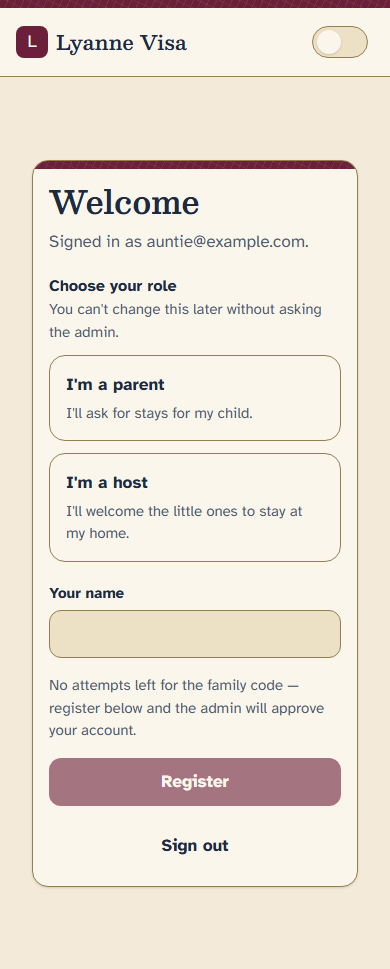
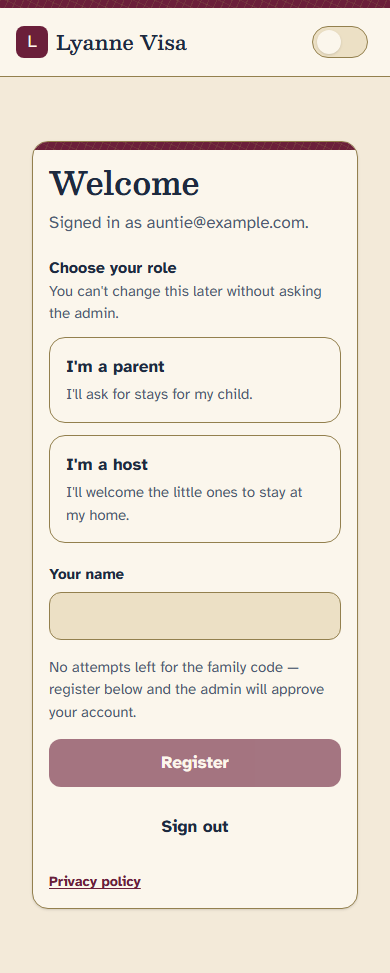
Add public /privacy page for Google OAuth branding
Google's OAuth consent-screen branding step needs a privacy policy URL
(docs/stayover/general/setup.md §4: <site>/privacy). Adds a static,
public Privacy screen reachable in every account state (signed out,
waiting, active, deactivated, admin) by carving out an
ALWAYS_PUBLIC_PATHS exception in routeFor, the single choke point both
src/proxy.ts and requireAccountForPath already use — so nothing can
redirect it away. Links to it from the sign-in and register screens'
footers. Content is derived from the schema, delivery and routing code
(what's stored, Google's basic scopes, processors, cookies/localStorage,
who can see what, and what admin_delete_member/delete_application
actually remove), with two spots flagged [OWNER TO CONFIRM] where the
answer is a hosting/ops choice, not something the code shows.

diff --git a/src/ui/screens/Privacy.tsx b/src/ui/screens/Privacy.tsx
@@ -1,0 +1,150 @@
+import type { ReactNode } from "react";
+import { Card } from "../Card";
+
+// Public, static screen — reachable signed out AND in any signed-in account
+// state (src/stayover/routing.ts's ALWAYS_PUBLIC_PATHS). No AppShell/member
+// nav here (this isn't a page the signed-in app's own nav ever points to);
+// a simple top bar with the brand and a link back to "/" instead, matching
+// how SignIn/Waiting/Deactivated lay out their own full-page Card without
+// AppShell.
+
+function Section({ title, children }: { title: string; children: ReactNode }) {
+  return (
+    <section className="mt-6">
+      <h2 className="font-display text-[20px] font-semibold text-text">{title}</h2>
+      <div className="mt-2 flex flex-col gap-2 text-[16px] text-text">{children}</div>
+    </section>
+  );
+}
+
+export function Privacy() {
+  return (
+    <div className="flex min-h-screen flex-col bg-bg">
+      <span aria-hidden="true" className="bg-guilloche block h-2 shrink-0 bg-accent" />
+      <header className="flex items-center justify-between border-b border-border bg-surface px-4 py-3 sm:px-6">
+        <span className="flex min-w-0 items-center gap-2">
+          <span
+            aria-hidden="true"
+            className="flex h-8 w-8 shrink-0 items-center justify-center rounded-lg bg-accent text-accent-ink"
+          >
+            L
+          </span>
+          <span className="truncate font-display text-[20px] font-semibold whitespace-nowrap text-text">
+            Lyanne Visa
+          </span>
+        </span>
+        {/* Plain <a>, not next/link — src/ui stays router-agnostic (see the
+            comment atop src/app/dev/gallery/registry.tsx); the other
+            internal links this screen is linked from (SignIn, Register)
+            use a plain <a> to /privacy for the same reason. */}
+        {/* eslint-disable-next-line @next/next/no-html-link-for-pages */}
+        <a
+          href="/"
+          className="flex min-h-[44px] items-center text-[17px] font-semibold text-accent underline underline-offset-2"
+        >
+          Back to home
+        </a>
+      </header>
+
+      <main className="mx-auto w-full max-w-[720px] flex-1 px-4 py-10 sm:px-6">
+        <Card letterhead>
+          <p className="font-display text-[32px] font-semibold text-text">Privacy policy</p>
+          <p className="mt-1 text-[15px] text-muted">Last updated: 25 September 2026</p>
+
+          <p className="mt-4 text-[16px] text-text">
+            Lyanne Visa is a small, private app one family uses to plan a child&apos;s
+            stayovers at grandparents&apos; and other hosts&apos; homes. It is not open to
+            the public — only people the admin has approved can sign in. This page explains,
+            in plain terms, what information the app keeps and why.
+          </p>
+
+          <Section title="What we store">
+            <p>When you have an account, we keep:</p>
+            <ul className="list-disc pl-5">
+              <li>Your account name, email address, role (parent or host) and status.</li>
+              <li>Children&apos;s names, and which parents are linked to each child.</li>
+              <li>Homes/places, including their name, address (if you add one), time zone and any capacity you set, and which hosts are linked to each one.</li>
+              <li>Stay applications: the child and home involved, proposed dates, the back-and-forth of accepting, rejecting, proposing again or cancelling, and any notes left along the way.</li>
+              <li>A record of the notification and invite emails the app has sent or tried to send (the recipient address, what kind of email it was, and whether it was sent, still pending, or failed).</li>
+              <li>Whether you&apos;ve dismissed the &ldquo;contacts&rdquo; tip, so it doesn&apos;t keep reappearing.</li>
+            </ul>
+          </Section>
+
+          <Section title="Signing in with Google">
+            <p>
+              If you sign in with Google, we only ever ask for the basic information Google
+              calls your &ldquo;openid&rdquo;, email and profile scopes — in practice, your name and
+              email address. We don&apos;t request access to your contacts, calendar, photos
+              or anything else in your Google account.
+            </p>
+          </Section>
+
+          <Section title="Who handles this data for us">
+            <p>We don&apos;t run our own servers. The app relies on:</p>
+            <ul className="list-disc pl-5">
+              <li><strong>Supabase</strong> — sign-in and the database that stores everything above.</li>
+              <li><strong>Vercel</strong> — hosting the website itself.</li>
+              <li><strong>Google</strong> — sign-in, if you choose that option.</li>
+              <li><strong>Gmail</strong> — sending notification and invite emails from a dedicated app email account.</li>
+            </ul>
+          </Section>
+
+          <Section title="Cookies and things stored in your browser">
+            <ul className="list-disc pl-5">
+              <li>A sign-in session cookie set by Supabase, so you stay signed in between visits.</li>
+              <li>A light/dark theme preference, saved in your browser&apos;s local storage.</li>
+            </ul>
+            <p>We don&apos;t use analytics, advertising or tracking cookies of any kind.</p>
+          </Section>
+
+          <Section title="Who can see what">
+            <p>
+              Parents only see the children, homes and applications they&apos;re linked to;
+              hosts only see the homes, applications and (once involved in a stay) children
+              linked to them. The admin can see and manage accounts, children and homes so
+              they can run the family&apos;s side of the app.
+            </p>
+          </Section>
+
+          <Section title="Sharing">
+            <p>
+              We never sell your data, and we don&apos;t use it for advertising. It is only
+              used to run this app for your family.
+            </p>
+          </Section>
+
+          <Section title="Keeping and deleting data">
+            <p>
+              Deleting a stay application removes it, and its full history, completely —
+              but only while no host has responded to it yet; once a host has replied, it
+              can be cancelled instead of deleted, keeping a record of what happened.
+            </p>
+            <p>
+              The admin can permanently delete an account once it has been deactivated and
+              has no history left behind (no linked children, homes or applications). That
+              removes the account entirely; it doesn&apos;t touch your underlying Google
+              account, so you could sign in and be added again later.
+            </p>
+            <p>
+              [OWNER TO CONFIRM: where Supabase/Vercel host this data (region/country), and
+              how long database backups are kept after data is deleted]
+            </p>
+          </Section>
+
+          <Section title="Access, correction or deletion">
+            <p>
+              To ask what we hold about you, correct it, or have it deleted, email{" "}
+              <a
+                href="mailto:lyanne.stayovers@gmail.com"
+                className="font-semibold text-accent underline underline-offset-2"
+              >
+                lyanne.stayovers@gmail.com
+              </a>
+              .
+            </p>
+          </Section>
+        </Card>
+      </main>
+    </div>
+  );
+}

diff --git a/src/stayover/routing.ts b/src/stayover/routing.ts
@@ -66,6 +66,14 @@ export function classifyMyAccountRpc(
 
 const PUBLIC_PATHS = new Set(["/sign-in", "/auth/callback"]);
 
+// Reachable regardless of account state — signed out, waiting, deactivated,
+// active or admin — unlike PUBLIC_PATHS above (which only matters for the
+// signed-out branch below, since every signed-in state routes everything
+// else to its own fixed target). /privacy is public content, not part of
+// the signed-in app's page set, so it is checked first and short-circuits
+// every branch of routeFor.
+const ALWAYS_PUBLIC_PATHS = new Set(["/privacy"]);
+
 // An active member now has several allowed pages (Overview, Applications,
 // Plan a stay, an application's detail, and /home for "My children"/"My
 // home") rather than one fixed target — same shape as the admin area's
@@ -101,11 +109,17 @@ function targetFor(account: MyAccount): string {
  * should redirect to, or `null` if `pathname` is already one this state is
  * allowed to see.
  *
+ * `/privacy` is reachable regardless of account state (ALWAYS_PUBLIC_PATHS,
+ * checked first) — it is public content, not part of the signed-in app's
+ * page set.
+ *
  * `/dev/*` is intentionally not handled here — whether it is reachable
  * depends on `NODE_ENV`, which is an environment concern the caller (proxy)
  * owns, not this pure state machine.
  */
 export function routeFor(account: MyAccount | null, pathname: string): string | null {
+  if (ALWAYS_PUBLIC_PATHS.has(pathname)) return null;
+
   if (account === null) {
     if (PUBLIC_PATHS.has(pathname)) return null;
     return `/sign-in?next=${encodeURIComponent(pathname)}`;

diff --git a/src/app/dev/gallery/registry.tsx b/src/app/dev/gallery/registry.tsx
@@ -5,6 +5,7 @@ import type { ReactNode } from "react";
 import type { NavItem } from "@/ui/AppShell";
 import { SignIn } from "@/ui/screens/SignIn";
 import { Register } from "@/ui/screens/Register";
+import { Privacy } from "@/ui/screens/Privacy";
 import { Waiting } from "@/ui/screens/Waiting";
 import { Deactivated } from "@/ui/screens/Deactivated";
 import { ParentHome } from "@/ui/screens/ParentHome";
@@ -77,6 +78,7 @@ export type ScreenEntry = {
 export const screenList: ScreenEntry[] = [
   { key: "sign-in", label: "Sign in", states: Object.keys(signInFixtures) },
   { key: "register", label: "Register", states: Object.keys(registerFixtures) },
+  { key: "privacy", label: "Privacy", states: ["default"] },
   { key: "waiting", label: "Waiting", states: Object.keys(waitingFixtures) },
   { key: "deactivated", label: "Deactivated", states: Object.keys(deactivatedFixtures) },
   { key: "parent-home", label: "ParentHome", states: Object.keys(parentHomeFixtures) },
@@ -107,6 +109,9 @@ export function renderScreen(key: string, state: string | undefined): RenderedSc
     case "register": {
       const props = registerFixtures[state ?? "default"] ?? registerFixtures.default;
       return { label: "Register", nav: [], node: <Register {...props} /> };
+    }
+    case "privacy": {
+      return { label: "Privacy", nav: [], node: <Privacy /> };
     }
     case "waiting": {
       const props = waitingFixtures[state ?? "default"] ?? waitingFixtures.default;

diff --git a/src/stayover/routing.test.ts b/src/stayover/routing.test.ts
@@ -42,6 +42,32 @@ describe("routeFor: signed out", () => {
   });
 });
 
+describe("routeFor: /privacy is reachable regardless of account state", () => {
+  it("leaves /privacy alone when signed out", () => {
+    expect(routeFor(null, "/privacy")).toBeNull();
+  });
+
+  it("leaves /privacy alone for an admin", () => {
+    expect(routeFor(account({ isAdmin: true, role: null, status: null }), "/privacy")).toBeNull();
+  });
+
+  it("leaves /privacy alone for an active member", () => {
+    expect(routeFor(account({ status: "active" }), "/privacy")).toBeNull();
+  });
+
+  it("leaves /privacy alone for a waiting member", () => {
+    expect(routeFor(account({ status: "waiting" }), "/privacy")).toBeNull();
+  });
+
+  it("leaves /privacy alone for a deactivated member", () => {
+    expect(routeFor(account({ status: "deactivated" }), "/privacy")).toBeNull();
+  });
+
+  it("leaves /privacy alone for an unregistered account", () => {
+    expect(routeFor(account({ memberId: null, role: null, status: null }), "/privacy")).toBeNull();
+  });
+});
+
 describe("routeFor: admin", () => {
   const admin = account({ isAdmin: true, role: null, status: null });
 

diff --git a/src/app/privacy/page.tsx b/src/app/privacy/page.tsx
@@ -1,0 +1,16 @@
+import type { Metadata } from "next";
+import { Privacy } from "@/ui/screens/Privacy";
+
+// Public, static page — reachable signed out and in every signed-in account
+// state (src/stayover/routing.ts's ALWAYS_PUBLIC_PATHS, checked first in
+// routeFor, so neither src/proxy.ts nor requireAccountForPath ever redirects
+// it away). Needed for Google OAuth branding verification (setup.md §4:
+// privacy policy = <site>/privacy). No data fetching, so this renders
+// statically at build time.
+export const metadata: Metadata = {
+  title: "Privacy policy · Lyanne Visa",
+};
+
+export default function PrivacyPage() {
+  return <Privacy />;
+}

diff --git a/src/ui/screens/Register.tsx b/src/ui/screens/Register.tsx
@@ -112,6 +112,12 @@ export function Register({ email, codeAttemptsLeft, onRegister, onSignOut }: Reg
             Sign out
           </Button>
         </div>
+
+        <p className="mt-5 text-[14px] text-muted">
+          <a href="/privacy" className="font-semibold text-accent underline underline-offset-2">
+            Privacy policy
+          </a>
+        </p>
       </Card>
     </div>
   );

diff --git a/src/ui/screens/SignIn.tsx b/src/ui/screens/SignIn.tsx
@@ -100,6 +100,12 @@ export function SignIn({ error, onRequestLink, onGoogle, googleSlot }: SignInPro
             )}
           </div>
         )}
+
+        <p className="mt-5 text-[14px] text-muted">
+          <a href="/privacy" className="font-semibold text-accent underline underline-offset-2">
+            Privacy policy
+          </a>
+        </p>
       </Card>
     </div>
   );

diff --git a/docs/IMPLEMENTATION.md b/docs/IMPLEMENTATION.md
@@ -46,6 +46,7 @@ list is `npm run build`'s own output (`ƒ` dynamic / `○` static).
 | `○ /dev/gallery` | dev-only screen gallery (not part of the routed app) | `src/app/dev/gallery/page.tsx` |
 | `ƒ /dev/gallery/[screen]` | dev-only screen gallery | `src/app/dev/gallery/[screen]/page.tsx` |
 | `ƒ /home` | `render` (ParentHome/HostHome), `addChild`/`addPlace`/`linkGuardian`/`linkHost` | `src/app/home/page.tsx:HomePage` |
+| `○ /privacy` | static — public, no data fetching | `src/app/privacy/page.tsx:PrivacyPage` |
 | `ƒ /register` | `register ⊸` | `src/app/register/page.tsx:RegisterPage` |
 | `ƒ /sign-in` | `requestSignInLink`, Google OAuth redirect | `src/app/sign-in/page.tsx:SignInPage` |
 | `ƒ /waiting` | `render` (Waiting) | `src/app/waiting/page.tsx:WaitingPage` |
